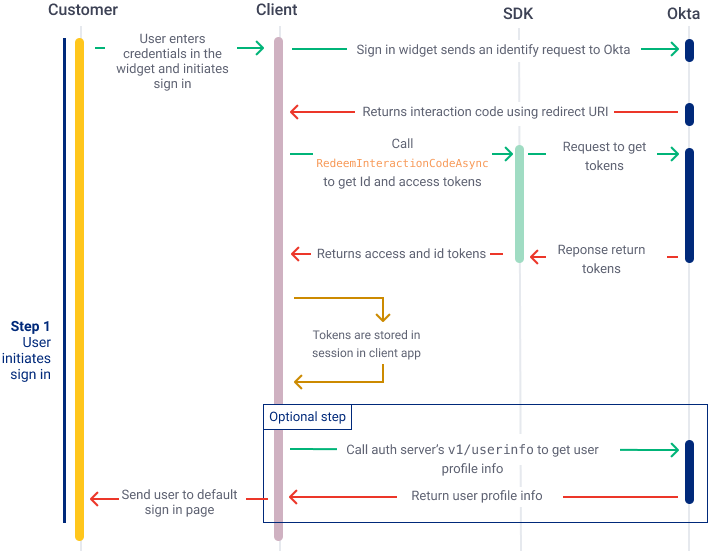
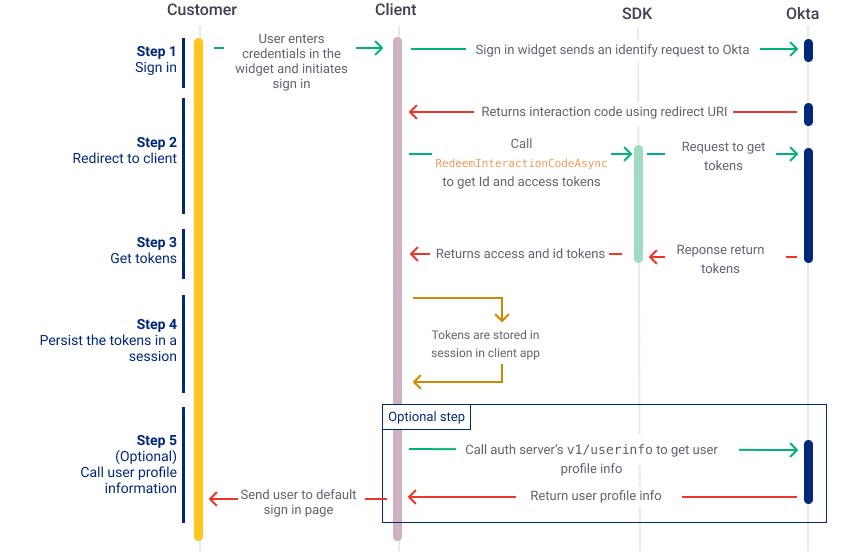
aspnet widget sign in clean up steps

diff --git a/packages/@okta/vuepress-site/docs/guides/oie-embedded-widget-use-cases/oie-embedded-widget-use-case-basic-sign-in/aspnet/integrationsteps.md b/packages/@okta/vuepress-site/docs/guides/oie-embedded-widget-use-cases/oie-embedded-widget-use-case-basic-sign-in/aspnet/integrationsteps.md
@@ -1,6 +1,6 @@
 ## Integration steps
 
-###  Step 1: User signs in
+### Step 1: Sign in
 
 After you complete the steps in [Use Case 1: Load the widget](/docs/guides/oie-embedded-widget-use-cases/aspnet/oie-embedded-widget-use-case-load/) and the widget loads successfully, then the next step is for the user to sign in.  There is no additional code that needs to be added to your app for this step. The user enters their credentials, and clicks the **Next** or **Sign In** button.
 
@@ -11,7 +11,7 @@ After you complete the steps in [Use Case 1: Load the widget](/docs/guides/oie-e
 
 </div>
 
-### Step 2: Set up callback from the widget
+### Step 2: Redirect to client
 
 This step handles the callback from the widget that returns an `interaction_code`. This code is redeemed in the next step for tokens. The callback URL must be identical and is defined in the following locations:
 
@@ -29,7 +29,7 @@ public async Task<ActionResult> Callback(string state = null, string interaction
 }
 ```
 
-### Step 3: Call RedeemInteractionCodeAsync to get tokens
+### Step 3: Get tokens
 
 The next step is to call `RedeemInteractionCodeAsync` inside the callback function for the `IdxClient`. The interaction code is used to get the ID and access tokens, which you can subsequently use to pull user information.
 
@@ -37,7 +37,16 @@ The next step is to call `RedeemInteractionCodeAsync` inside the callback functi
 Okta.Idx.Sdk.TokenResponse tokens = await _idxClient.RedeemInteractionCodeAsync(idxContext, interaction_code);
 ```
 
-### Step 4: Call user profile information (Optional)
+### Step 4: Persist the tokens in a session
+
+Persist the tokens in session for future use. The following code from the sample app uses `IAuthenticationManager` from `Microsoft.Owin.Security` to persist the tokens in session.
+
+```csharp
+ClaimsIdentity identity = await AuthenticationHelper.GetIdentityFromTokenResponseAsync(_idxClient.Configuration, tokens);
+_authenticationManager.SignIn(new AuthenticationProperties { IsPersistent = false }, identity);
+```
+
+### Step 5: (Optional) Call user profile information
 
 Depending on your implementation, you can choose to pull user information. When you use the tokens that are provided by the `RedeemInteractionCodeAsync` method, you can request the user profile information from the `v1/userinfo` endpoint. The following code from the sample app provides details for this call.
 
@@ -56,13 +65,4 @@ public static async Task<IEnumerable<Claim>> GetClaimsFromUserInfoAsync(IdxConfi
             == "name")?.Value);
    return userInfoResponse.Claims.Append(nameClaim);
 }
-```
-
-### Step 5: Persist the tokens in session
-
-The final step is to persist the tokens in session for future use. The following code from the sample app uses `IAuthenticationManager` from `Microsoft.Owin.Security` to persist the tokens in session.
-
-```csharp
-ClaimsIdentity identity = await AuthenticationHelper.GetIdentityFromTokenResponseAsync(_idxClient.Configuration, tokens);
-_authenticationManager.SignIn(new AuthenticationProperties { IsPersistent = false }, identity);
 ```
